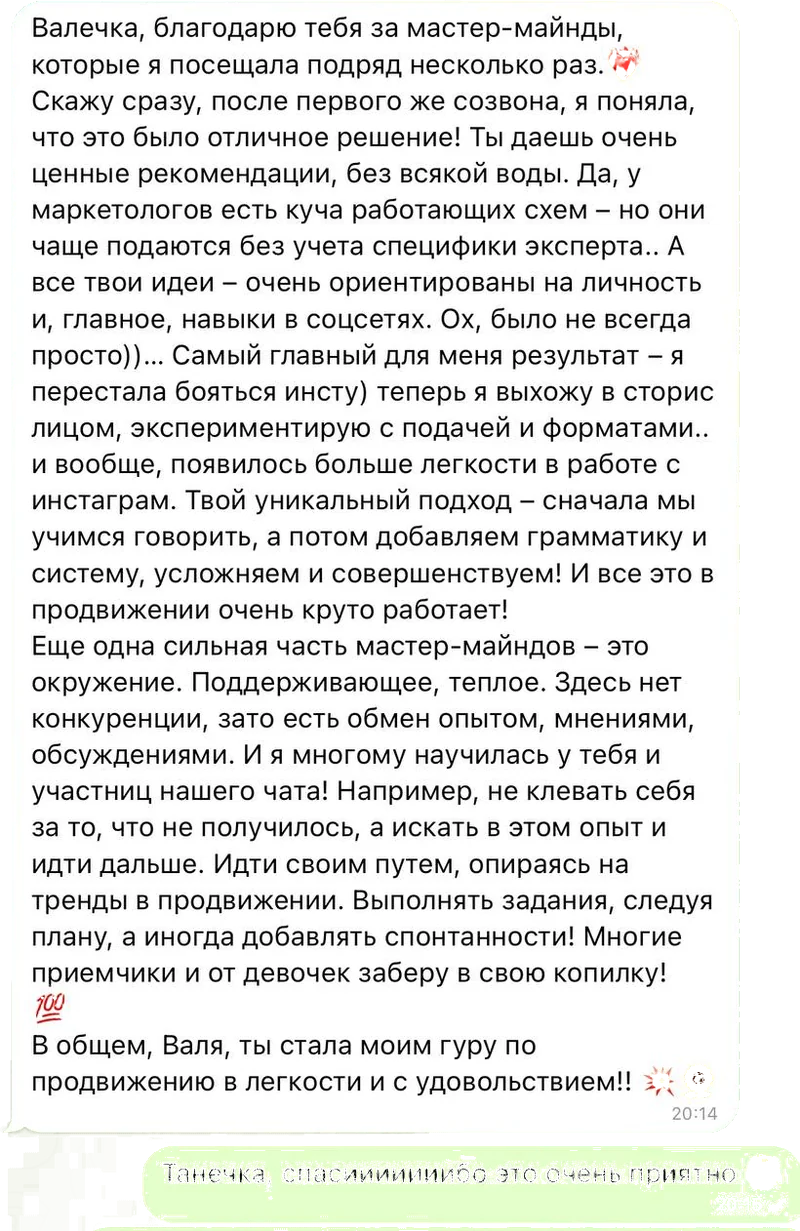
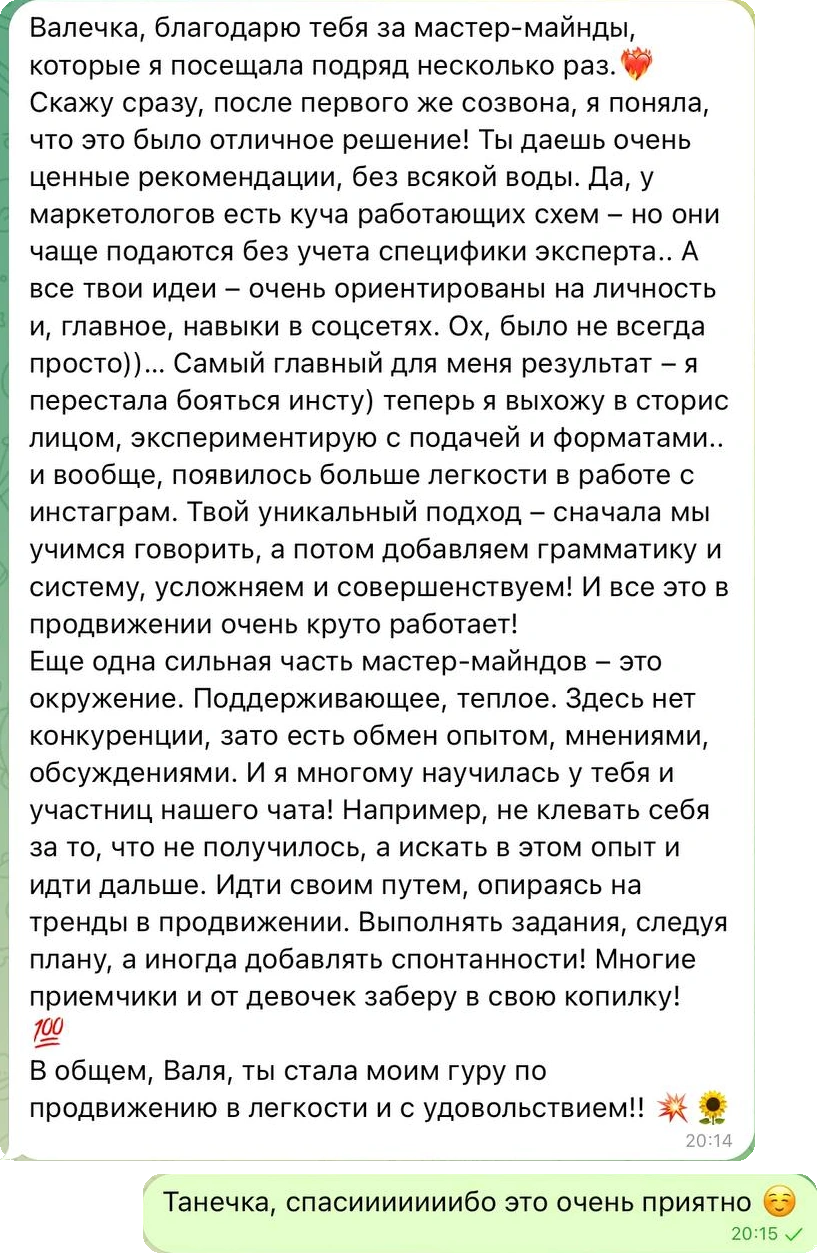
fix: маска пузырей по геометрии и отказ от даунскейла
Брак прошлой вырезки: маска считалась по цвету и принимала за фон всё
зелёное и жёлтое, включая содержимое пузыря. Отсюда выцветшие эмодзи,
призрачные зелёные ответы Валентины, полупрозрачные аватарки и клочок
обоев у «Валя, привет».

Маска переделана на геометрическую:
- цвет теперь используется ТОЛЬКО чтобы найти границы пузыря;
- маска = скруглённый прямоугольник бокса (радиус 2.2% ширины кадра,
  10..26 px) плюс хвостик, который добирается цветом строго внутри бокса;
- внутри бокса альфа 255 без порогов — эмодзи, мятные ответы, время
  и галочки прочтения сохраняются как есть;
- аватарка — отдельный круг с мягким краем; ищется по маске «не обои»,
  а не по светлой: фотография не светлая, из-за чего аватарки Ларисы
  и Prosecco терялись. Аватарка Ларисы касается пузыря и сливается
  с ним в один компонент — задана боксом вручную.

Границы бокса растут по плотности светлого в строке и столбце, а не по
связной компоненте: компонента обрывалась на ярком эмодзи (жёлтая звезда
у Надежды читалась как обои), из-за чего строка «игры, как игропрактик»
срезалась. Теперь бокс идёт до реального края пузыря.

Автопроверка: непрозрачных пикселей с зелёным оттенком вне боксов
и кругов — 0 на всех 15 файлах.

Качество: даунскейл до 800 px убран, файлы отдаются в исходном
разрешении 610..1207 px, WebP качество поднято с 86 до 94. Ведущий
пузырь: файл 1125 px при показе 505 px — 2.2x, ретина закрыта. Вес
1691 КБ на 15 файлов, максимум 252 КБ. Lossless проверен и отклонён:
[…]

Changed region(s): [[0.0, 0.0, 1.0, 1.0], [0.9062, 0.0, 0.9375, 0.0309]]

diff --git a/otzyvy/index.html b/otzyvy/index.html
@@ -47,14 +47,14 @@
   ]
 }
 </script>
-<link rel="stylesheet" href="/assets/css/style.css?v=20260924-rev3"><link rel="stylesheet" href="/assets/css/mobile.css?v=20260924-rev3">
+<link rel="stylesheet" href="/assets/css/style.css?v=20260924-rev4"><link rel="stylesheet" href="/assets/css/mobile.css?v=20260924-rev4">
 </head><body class="home otzyvy"><a class="skip" href="#main">К содержанию</a>
 <div class="page-band page-band--cream"><header class="topbar"><nav class="header-menu" aria-label="Разделы сайта"><a href="#about">Обо мне</a><a href="#formats">Форматы</a><a href="#calendar">Календарь</a><a href="#thoughts">Блог</a></nav><nav class="header-social" aria-label="Социальные сети"><a href="https://t.me/valentina_pro_marketing" target="_blank" rel="noopener noreferrer" aria-label="Telegram"><img src="/assets/brand/telegram-icon.svg" width="22" height="22" alt=""></a><a href="https://max.ru/id421204839449_biz" target="_blank" rel="noopener noreferrer" aria-label="MAX"><img src="/assets/brand/max-icon.svg" width="22" height="22" alt=""></a><a href="https://www.instagram.com/valentina_promarketing" target="_blank" rel="noopener noreferrer" aria-label="Instagram"><img src="/assets/brand/instagram-icon.svg" width="22" height="22" alt=""></a></nav></header></div>
-<main id="main"><div class="page-band page-band--cream"><section class="reviews" aria-labelledby="rev-h"><div class="sec-head" data-motion="reveal"><h1 id="rev-h">Своими словами</h1><span class="rule"></span><p class="label">ЖИВЫЕ ПЕРЕПИСКИ, БЕЗ ПРАВОК · <br>НАЖМИТЕ, ЧТОБЫ ОТКРЫТЬ ЦЕЛИКОМ</p></div><div class="rev-lead"><a class="rev-card rev-card--lead" href="/assets/img/reviews/review-03-larisa-marafon.jpg" data-shot data-alt="Отзыв Ларисы: за 2 месяца разработали концепцию бренда, запустили марафон и набрали группу 23 человека" data-motion="bubble"><span class="rev-stage"><img src="/assets/img/reviews/bub-01-larisa-marafon.webp" width="800" height="333" loading="lazy" decoding="async" alt="Отзыв Ларисы: за 2 месяца разработали концепцию бренда, запустили марафон и набрали группу 23 человека"></span><span class="rev-cap"><b>Лариса С Дочкой</b><span class="rev-tag">Сопровождение проекта</span></span></a><a class="rev-card rev-card--lead" href="/assets/img/reviews/review-01-olga-psiholog.jpg" data-shot data-alt="Отзыв Ольги о мастермайнде: вернулась в соцсети, провела прямой эфир и поняла своё позиционирование" data-motion="bubble"><span class="rev-stage"><img src="/assets/img/reviews/bub-03-olga-psiholog.webp" width="800" height="1067" loading="lazy" decoding="async" alt="Отзыв Ольги о мастермайнде: вернулась в соцсети, провела прямой эфир и поняла своё позиционирование"></span><span class="rev-cap"><b>Ольга Психолог Симферополь</b><span class="rev-tag">Мастермайнд</span></span></a><a class="rev-card rev-card--lead" href="/assets/img/reviews/review-06-prosecco-design.jpg" data-shot data-alt="Отзыв Prosecco_Design: появилась чёткая структура и понимание что транслировать" data-motion="bubble"><span class="rev-stage"><img src="/assets/img/reviews/bub-05-prosecco-design.webp" width="800" height="399" loading="lazy" decoding="async" alt="Отзыв Prosecco_Design: появилась чёткая структура и понимание что транслировать"></span><span class="rev-cap"><b>Prosecco_Design</b><span class="rev-tag">Групповой формат</span></span></a></div><div class="rev-wall"><a class="rev-card" href="/assets/img/reviews/review-02-tanya-mastermaind.jpg" data-shot data-alt="Отзыв Тани о мастер-майндах: перестала бояться инсту, выходит в сторис лицом" data-motion="bubble"><span class="rev-stage"><img src="/assets/img/reviews/bub-02-tanya-mastermaind.webp" width="800" height="1231" loading="lazy" decoding="async" alt="Отзыв Тани о мастер-майндах: перестала бояться инсту, выходит в сторис лицом"></span><span class="rev-cap"><b>Таня</b><span class="rev-tag">Мастер-майнды</span></span></a><a class="rev-card" href="/assets/img/reviews/review-05-nadezhda-igra.jpg" data-shot data-alt="Отзыв Надежды об игре «Путь гениальности»: за две недели провела 2 платных игры" data-motion="bubble"><span class="rev-stage"><img src="/assets/img/reviews/bub-04-nadezhda-igra.webp" width="765" height="1132" loading="lazy" decoding="async" alt="Отзыв Надежды об игре «Путь гениальности»: за две недели провела 2 платных игры"></span><span class="rev-cap"><b>Надежда</b><span class="rev-tag">Игра «Путь гениальности»</span></span></a><a class="rev-card" href="/assets/img/reviews/review-09-praktikum.jpg" data-shot data-alt="Отзыв о практикуме: лёгкий и рабочий инструмент без надрыва и ужаса к соцсетям" data-motion="bubble"><span class="rev-stage"><img src="/assets/img/reviews/bub-06-praktikum.webp" width="800" height="297" loading="lazy" decoding="async" alt="Отзыв о практикуме: лёгкий и рабочий инструмент без надрыва и ужаса к соцсетям"></span><span class="rev-cap"><b>Участница практикума</b><span class="rev-tag">Практикум</span></span></a><a class="rev-card" href="/assets/img/reviews/review-07-obuchenie-raspakovka.jpg" data-shot data-alt="Отзыв об обучении: доупаковала аккаунт, поменяла продукт и поняла, что делать дальше" data-motion="bubble"><span class="rev-stage"><img src="/assets/img/reviews/bub-07-obuchenie-raspakovka.webp" width="800" height="814" loading="lazy" decoding="async" alt="Отзыв об обучении: доупаковала аккаунт, поменяла продукт и поняла, что делать дальше"></span><span class="rev-cap"><b>Участница обучения</b><span class="rev-tag">Обучение</span></span></a><a class="rev-card" href="/assets/img/reviews/review-08-obuchenie-produkt.jpg" data-shot data-alt="Отзыв об обучении: многое встало на свои места, начала что-то делать" data-motion="bubble"><span class="rev-stage"><img src="/assets/img/reviews/bub-08-obuchenie-produkt.webp" width="800" height="403" loading="lazy" decoding="async" alt="Отзыв об обучении: многое встало на свои места, начала что-то делать"></span><span class="rev-cap"><b>Участница обучения</b><span class="rev-tag">Обучение</span></span></a><a class="rev-card" href="/assets/img/reviews/review-04-larisa-zapusk.jpg" data-shot data-alt="Отзыв Ларисы о запуске проекта: поддержка дала понимание, уверенность и желание двигаться дальше" data-motion="bubble"><span class="rev-stage"><img src="/assets/img/reviews/bub-09-larisa-zapusk.webp" width="800" height="520" loading="lazy" decoding="async" alt="Отзыв Ларисы о запуске проекта: поддержка дала понимание, уверенность и желание двигаться дальше"></span><span class="rev-cap"><b>Лариса С Дочкой</b><span class="rev-tag">Сопровождение проекта</span></span></a><a class="rev-card" href="/assets/img/reviews/review-14-gruppa-znakomstvo.jpg" data-shot data-alt="Отзыв участницы группы: получила много полезного и мощную поддержку" data-motion="bubble"><span class="rev-stage"><img src="/assets/img/reviews/bub-10-gruppa-znakomstvo.webp" width="800" height="311" loading="lazy" decoding="async" alt="Отзыв участницы группы: получила много полезного и мощную поддержку"></span><span class="rev-cap"><b>Участница групповой работы</b><span class="rev-tag">Групповой формат</span></span></a><a class="rev-card" href="/assets/img/reviews/review-10-konsultaciya-pitanie.jpg" data-shot data-alt="Отзыв о консультации: загорелась идеей промежуточного продукта, чтобы охватить больше аудитории" data-motion="bubble"><span class="rev-stage"><img src="/assets/img/reviews/bub-11-konsultaciya-pitanie.webp" width="800" height="473" loading="lazy" decoding="async" alt="Отзыв о консультации: загорелась идеей промежуточного продукта, чтобы охватить больше аудитории"></span><span class="rev-cap"><b>Клиентка, тема здорового питания</b><span class="rev-tag">Консультация</span></span></a><a class="rev-card" href="/assets/img/reviews/review-13-gruppa-polza.jpg" data-shot data-alt="Отзыв участницы группы: много пользы и много тёплых эмоций" data-motion="bubble"><span class="rev-stage"><img src="/assets/img/reviews/bub-12-gruppa-polza.webp" width="800" height="290" loading="lazy" decoding="async" alt="Отзыв участницы группы: много пользы и много тёплых эмоций"></span><span class="rev-cap"><b>Участница групповой работы</b><span class="rev-tag">Групповой формат</span></span></a><a class="rev-card" href="/assets/img/reviews/review-11-uverennost.jpg" data-shot data-alt="Отзыв клиентки: ощущаю себя увереннее намного, чем месяц назад" data-motion="bubble"><span class="rev-stage"><img src="/assets/img/reviews/bub-13-uverennost.webp" width="800" height="213" loading="lazy" decoding="async" alt="Отзыв клиентки: ощущаю себя увереннее намного, чем месяц назад"></span><span class="rev-cap"><b>Клиентка</b><span class="rev-tag">Продукт не назван</span></span></a><a class="rev-card" href="/assets/img/reviews/review-12-razbor-zaprosa.jpg" data-shot data-alt="Отзыв клиентки: запрос разобрали быстро и легко" data-motion="bubble"><span class="rev-stage"><img src="/assets/img/reviews/bub-14-razbor-zaprosa.webp" width="800" height="203" loading="lazy" decoding="async" alt="Отзыв клиентки: запрос разобрали быстро и легко"></span><span class="rev-cap"><b>Клиентка после разбора запроса</b><span class="rev-tag">Консультация</span></span></a><a class="rev-card" href="/assets/img/reviews/review-15-nahodka.jpg" data-shot data-alt="Отзыв клиентки: среди воды и «шелухи» ты действительно большая находка" data-motion="bubble"><span class="rev-stage"><img src="/assets/img/reviews/bub-15-nahodka.webp" width="610" height="167" loading="lazy" decoding="async" alt="Отзыв клиентки: среди воды и «шелухи» ты действительно большая находка"></span><span class="rev-cap"><b>Клиентка</b><span class="rev-tag">Продукт не назван</span></span></a></div><dialog class="shot" id="shot" aria-label="Оригинал переписки"><button class="shot-x" type="button" aria-label="Закрыть оригинал">&times;</button><img class="shot-img" alt=""><p class="shot-cap">Оригинал переписки</p></dialog></section></div>
+<main id="main"><div class="page-band page-band--cream"><section class="reviews" aria-labelledby="rev-h"><div class="sec-head" data-motion="reveal"><h1 id="rev-h">Своими словами</h1><span class="rule"></span><p class="label">ЖИВЫЕ ПЕРЕПИСКИ, БЕЗ ПРАВОК · <br>НАЖМИТЕ, ЧТОБЫ ОТКРЫТЬ ЦЕЛИКОМ</p></div><div class="rev-lead"><a class="rev-card rev-card--lead" href="/assets/img/reviews/review-03-larisa-marafon.jpg" data-shot data-alt="Отзыв Ларисы: за 2 месяца разработали концепцию бренда, запустили марафон и набрали группу 23 человека" data-motion="bubble"><span class="rev-stage"><img src="/assets/img/reviews/bub-01-larisa-marafon.webp" width="1125" height="460" loading="lazy" decoding="async" alt="Отзыв Ларисы: за 2 месяца разработали концепцию бренда, запустили марафон и набрали группу 23 человека"></span><span class="rev-cap"><b>Лариса С Дочкой</b><span class="rev-tag">Сопровождение проекта</span></span></a><a class="rev-card rev-card--lead" href="/assets/img/reviews/review-01-olga-psiholog.jpg" data-shot data-alt="Отзыв Ольги о мастермайнде: вернулась в соцсети, провела прямой эфир и поняла своё позиционирование" data-motion="bubble"><span class="rev-stage"><img src="/assets/img/reviews/bub-03-olga-psiholog.webp" width="958" height="1270" loading="lazy" decoding="async" alt="Отзыв Ольги о мастермайнде: вернулась в соцсети, провела прямой эфир и поняла своё позиционирование"></span><span class="rev-cap"><b>Ольга Психолог Симферополь</b><span class="rev-tag">Мастермайнд</span></span></a><a class="rev-card rev-card--lead" href="/assets/img/reviews/review-06-prosecco-design.jpg" data-shot data-alt="Отзыв Prosecco_Design: появилась чёткая структура и понимание что транслировать" data-motion="bubble"><span class="rev-stage"><img src="/assets/img/reviews/bub-05-prosecco-design.webp" width="1133" height="552" loading="lazy" decoding="async" alt="Отзыв Prosecco_Design: появилась чёткая структура и понимание что транслировать"></span><span class="rev-cap"><b>Prosecco_Design</b><span class="rev-tag">Групповой формат</span></span></a></div><div class="rev-wall"><a class="rev-card" href="/assets/img/reviews/review-02-tanya-mastermaind.jpg" data-shot data-alt="Отзыв Тани о мастер-майндах: перестала бояться инсту, выходит в сторис лицом" data-motion="bubble"><span class="rev-stage"><img src="/assets/img/reviews/bub-02-tanya-mastermaind.webp" width="817" height="1253" loading="lazy" decoding="async" alt="Отзыв Тани о мастер-майндах: перестала бояться инсту, выходит в сторис лицом"></span><span class="rev-cap"><b>Таня</b><span class="rev-tag">Мастер-майнды</span></span></a><a class="rev-card" href="/assets/img/reviews/review-05-nadezhda-igra.jpg" data-shot data-alt="Отзыв Надежды об игре «Путь гениальности»: за две недели провела 2 платных игры" data-motion="bubble"><span class="rev-stage"><img src="/assets/img/reviews/bub-04-nadezhda-igra.webp" width="752" height="1093" loading="lazy" decoding="async" alt="Отзыв Надежды об игре «Путь гениальности»: за две недели провела 2 платных игры"></span><span class="rev-cap"><b>Надежда</b><span class="rev-tag">Игра «Путь гениальности»</span></span></a><a class="rev-card" href="/assets/img/reviews/review-09-praktikum.jpg" data-shot data-alt="Отзыв о практикуме: лёгкий и рабочий инструмент без надрыва и ужаса к соцсетям" data-motion="bubble"><span class="rev-stage"><img src="/assets/img/reviews/bub-06-praktikum.webp" width="1073" height="399" loading="lazy" decoding="async" alt="Отзыв о практикуме: лёгкий и рабочий инструмент без надрыва и ужаса к соцсетям"></span><span class="rev-cap"><b>Участница практикума</b><span class="rev-tag">Практикум</span></span></a><a class="rev-card" href="/assets/img/reviews/review-07-obuchenie-raspakovka.jpg" data-shot data-alt="Отзыв об обучении: доупаковала аккаунт, поменяла продукт и поняла, что делать дальше" data-motion="bubble"><span class="rev-stage"><img src="/assets/img/reviews/bub-07-obuchenie-raspakovka.webp" width="1131" height="1184" loading="lazy" decoding="async" alt="Отзыв об обучении: доупаковала аккаунт, поменяла продукт и поняла, что делать дальше"></span><span class="rev-cap"><b>Участница обучения</b><span class="rev-tag">Обучение</span></span></a><a class="rev-card" href="/assets/img/reviews/review-08-obuchenie-produkt.jpg" data-shot data-alt="Отзыв об обучении: многое встало на свои места, начала что-то делать" data-motion="bubble"><span class="rev-stage"><img src="/assets/img/reviews/bub-08-obuchenie-produkt.webp" width="1135" height="558" loading="lazy" decoding="async" alt="Отзыв об обучении: многое встало на свои места, начала что-то делать"></span><span class="rev-cap"><b>Участница обучения</b><span class="rev-tag">Обучение</span></span></a><a class="rev-card" href="/assets/img/reviews/review-04-larisa-zapusk.jpg" data-shot data-alt="Отзыв Ларисы о запуске проекта: поддержка дала понимание, уверенность и желание двигаться дальше" data-motion="bubble"><span class="rev-stage"><img src="/assets/img/reviews/bub-09-larisa-zapusk.webp" width="1008" height="703" loading="lazy" decoding="async" alt="Отзыв Ларисы о запуске проекта: поддержка дала понимание, уверенность и желание двигаться дальше"></span><span class="rev-cap"><b>Лариса С Дочкой</b><span class="rev-tag">Сопровождение проекта</span></span></a><a class="rev-card" href="/assets/img/reviews/review-14-gruppa-znakomstvo.jpg" data-shot data-alt="Отзыв участницы группы: получила много полезного и мощную поддержку" data-motion="bubble"><span class="rev-stage"><img src="/assets/img/reviews/bub-10-gruppa-znakomstvo.webp" width="1144" height="445" loading="lazy" decoding="async" alt="Отзыв участницы группы: получила много полезного и мощную поддержку"></span><span class="rev-cap"><b>Участница групповой работы</b><span class="rev-tag">Групповой формат</span></span></a><a class="rev-card" href="/assets/img/reviews/review-10-konsultaciya-pitanie.jpg" data-shot data-alt="Отзыв о консультации: загорелась идеей промежуточного продукта, чтобы охватить больше аудитории" data-motion="bubble"><span class="rev-stage"><img src="/assets/img/reviews/bub-11-konsultaciya-pitanie.webp" width="1125" height="648" loading="lazy" decoding="async" alt="Отзыв о консультации: загорелась идеей промежуточного продукта, чтобы охватить больше аудитории"></span><span class="rev-cap"><b>Клиентка, тема здорового питания</b><span class="rev-tag">Консультация</span></span></a><a class="rev-card" href="/assets/img/reviews/review-13-gruppa-polza.jpg" data-shot data-alt="Отзыв участницы группы: много пользы и много тёплых эмоций" data-motion="bubble"><span class="rev-stage"><img src="/assets/img/reviews/bub-12-gruppa-polza.webp" width="1207" height="437" loading="lazy" decoding="async" alt="Отзыв участницы группы: много пользы и много тёплых эмоций"></span><span class="rev-cap"><b>Участница групповой работы</b><span class="rev-tag">Групповой формат</span></span></a><a class="rev-card" href="/assets/img/reviews/review-11-uverennost.jpg" data-shot data-alt="Отзыв клиентки: ощущаю себя увереннее намного, чем месяц назад" data-motion="bubble"><span class="rev-stage"><img src="/assets/img/reviews/bub-13-uverennost.webp" width="1177" height="302" loading="lazy" decoding="async" alt="Отзыв клиентки: ощущаю себя увереннее намного, чем месяц назад"></span><span class="rev-cap"><b>Клиентка</b><span class="rev-tag">Продукт не назван</span></span></a><a class="rev-card" href="/assets/img/reviews/review-12-razbor-zaprosa.jpg" data-shot data-alt="Отзыв клиентки: запрос разобрали быстро и легко" data-motion="bubble"><span class="rev-stage"><img src="/assets/img/reviews/bub-14-razbor-zaprosa.webp" width="993" height="255" loading="lazy" decoding="async" alt="Отзыв клиентки: запрос разобрали быстро и легко"></span><span class="rev-cap"><b>Клиентка после разбора запроса</b><span class="rev-tag">Консультация</span></span></a><a class="rev-card" href="/assets/img/reviews/review-15-nahodka.jpg" data-shot data-alt="Отзыв клиентки: среди воды и «шелухи» ты действительно большая находка" data-motion="bubble"><span class="rev-stage"><img src="/assets/img/reviews/bub-15-nahodka.webp" width="610" height="167" loading="lazy" decoding="async" alt="Отзыв клиентки: среди воды и «шелухи» ты действительно большая находка"></span><span class="rev-cap"><b>Клиентка</b><span class="rev-tag">Продукт не назван</span></span></a></div><dialog class="shot" id="shot" aria-label="Оригинал переписки"><button class="shot-x" type="button" aria-label="Закрыть оригинал">&times;</button><img class="shot-img" alt=""><p class="shot-cap">Оригинал переписки</p></dialog></section></div>
 <div class="page-band page-band--cream"><section class="rev-back-band"><p class="rev-all"><a class="btn" href="/#zayavka">Написать Валентине <svg class="i" viewBox="0 0 24 24" aria-hidden="true"><path d="M4 12h15m-6-6 6 6-6 6"/></svg></a></p></section></div>
 </main>
 <div class="page-band page-band--black"><footer><div class="footer-top"><div class="footer-identity"><a class="brand" href="/">Рыжий маркетолог</a><p class="footer-tagline">МАРКЕТИНГ. ЛЮДИ. РАЗВИТИЕ.</p><nav class="footer-social" aria-label="Социальные сети"><a href="https://t.me/valentina_pro_marketing" target="_blank" rel="noopener noreferrer">Telegram</a><a href="https://max.ru/id421204839449_biz" target="_blank" rel="noopener noreferrer">MAX</a><a href="https://www.instagram.com/valentina_promarketing" target="_blank" rel="noopener noreferrer">Instagram</a></nav></div><nav class="footer-menu" aria-label="Разделы сайта Рыжий маркетолог в подвале"><a href="/#about">Обо мне</a><a href="/#formats">Форматы</a><a href="/#calendar">Календарь</a><a href="/#thoughts">Блог</a></nav></div><div class="footer-legal"><p>ИП Сухарева Валентина Александровна · ИНН 421204839449 · ОГРНИП 325420500045757</p><nav aria-label="Юридические документы"><a href="/legal/oferta/">Оферта</a><a href="/legal/privacy/">Политика</a><a href="/rekvizity/">Реквизиты</a></nav></div><p class="footer-credit">Концепт и реализация — <a href="https://xn--80abbgkqqiqk5bzb.xn--p1ai" target="_blank" rel="noopener noreferrer">БигТехно<span class="credit-club">Клаб</span>.рф</a></p></footer></div>
-<script src="/assets/js/main.js?v=20260924-rev3" defer></script>
+<script src="/assets/js/main.js?v=20260924-rev4" defer></script>
 <script src="/assets/js/metrika.js" defer></script>
 <noscript><div><img src="https://mc.yandex.ru/watch/112475322" style="position:absolute;left:-9999px" alt=""></div></noscript>
 </body></html>

diff --git a/index.html b/index.html
@@ -26,7 +26,7 @@
 <link rel="apple-touch-icon" href="/assets/img/apple-touch-icon-180.png">
 <meta name="theme-color" content="#FE6C1F">
 <link rel="preload" href="/assets/fonts/golos-cyrillic.woff2" as="font" type="font/woff2" crossorigin>
-<link rel="stylesheet" href="/assets/css/style.css?v=20260924-rev3"><link rel="stylesheet" href="/assets/css/mobile.css?v=20260924-rev3">
+<link rel="stylesheet" href="/assets/css/style.css?v=20260924-rev4"><link rel="stylesheet" href="/assets/css/mobile.css?v=20260924-rev4">
 <meta name="twitter:title" content="Рыжий маркетолог — Валентина Сухарева">
 <meta name="twitter:description" content="Наставник по продвижению и личному бренду, организатор онлайн-нетворкингов. Работает онлайн по России, база — Сочи. Опыт в маркетинге более 15 лет.">
 <meta name="twitter:image" content="https://xn----8sbjhcmhkkgzbpg6a9j.xn--p1ai/assets/img/og-home.jpg">
@@ -174,7 +174,7 @@
 </section></div>
 <div class="page-band page-band--cream"><section id="about" class="about" aria-labelledby="about-h"><div class="about-copy" data-motion="reveal"><h2 id="about-h">Маркетинг с опытом. <br>И характером.</h2><p>Личный бренд, продвижение соцсетей <br>и запуск онлайн-продуктов.</p></div><p class="years"><b data-motion="number">15+</b><span>лет в маркетинге</span></p><div class="tags" data-motion="reveal"><p>СТРАТЕГИЯ <br>КОНТЕНТ <br>ЛЮДИ <br>РАЗВИТИЕ <br>СМЫСЛ</p><p>МАРКЕТИНГ <br>С ЧЕЛОВЕЧЕСКИМ <br>ЛИЦОМ</p></div></section></div>
 <div class="page-band page-band--blue"><section id="formats" class="formats-section" aria-labelledby="formats-h"><h2 id="formats-h" data-motion="reveal">Форматы моих мероприятий</h2><ul class="formats"><li data-motion="reveal" data-delay="0"><svg class="i" viewBox="0 0 24 24" aria-hidden="true"><rect x="3" y="4" width="18" height="14"/><path d="m10 8 5 3-5 3zM8 22h8M12 18v4"/></svg><b>Вебинары</b><p>Практика и разборы</p></li><li data-motion="reveal" data-delay="70"><svg class="i" viewBox="0 0 24 24" aria-hidden="true"><path d="M3 19 9 13l4 4 8-12M15 5h6v6M3 23h18"/></svg><b>Онлайн-марафоны</b><p>От знаний к действиям</p></li><li data-motion="reveal" data-delay="140"><svg class="i" viewBox="0 0 24 24" aria-hidden="true"><rect x="3" y="3" width="18" height="18"/><circle cx="12" cy="12" r="4" fill="currentColor" stroke="none"/></svg><b>Прямые эфиры</b><p>Живой разговор</p></li><li data-motion="reveal" data-delay="210"><svg class="i" viewBox="0 0 24 24" aria-hidden="true"><circle cx="6" cy="6" r="3"/><circle cx="18" cy="6" r="3"/><circle cx="6" cy="18" r="3"/><circle cx="18" cy="18" r="3"/><path d="M9 6h6M6 9v6M18 9v6M9 18h6"/></svg><b>Нетворкинги</b><p>Полезные знакомства</p></li></ul></section></div>
-<div class="page-band page-band--cream"><section id="reviews" class="reviews" aria-labelledby="rev-h"><div class="sec-head" data-motion="reveal"><h2 id="rev-h">Своими словами</h2><span class="rule"></span><p class="label">ЖИВЫЕ ПЕРЕПИСКИ, БЕЗ ПРАВОК · <br>НАЖМИТЕ, ЧТОБЫ ОТКРЫТЬ ЦЕЛИКОМ</p></div><div class="rev-lead"><a class="rev-card rev-card--lead" href="/assets/img/reviews/review-03-larisa-marafon.jpg" data-shot data-alt="Отзыв Ларисы: за 2 месяца разработали концепцию бренда, запустили марафон и набрали группу 23 человека" data-motion="bubble"><span class="rev-stage"><img src="/assets/img/reviews/bub-01-larisa-marafon.webp" width="800" height="333" loading="lazy" decoding="async" alt="Отзыв Ларисы: за 2 месяца разработали концепцию бренда, запустили марафон и набрали группу 23 человека"></span><span class="rev-cap"><b>Лариса С Дочкой</b><span class="rev-tag">Сопровождение проекта</span></span></a><a class="rev-card rev-card--lead" href="/assets/img/reviews/review-01-olga-psiholog.jpg" data-shot data-alt="Отзыв Ольги о мастермайнде: вернулась в соцсети, провела прямой эфир и поняла своё позиционирование" data-motion="bubble"><span class="rev-stage"><img src="/assets/img/reviews/bub-03-olga-psiholog.webp" width="800" height="1067" loading="lazy" decoding="async" alt="Отзыв Ольги о мастермайнде: вернулась в соцсети, провела прямой эфир и поняла своё позиционирование"></span><span class="rev-cap"><b>Ольга Психолог Симферополь</b><span class="rev-tag">Мастермайнд</span></span></a><a class="rev-card rev-card--lead" href="/assets/img/reviews/review-06-prosecco-design.jpg" data-shot data-alt="Отзыв Prosecco_Design: появилась чёткая структура и понимание что транслировать" data-motion="bubble"><span class="rev-stage"><img src="/assets/img/reviews/bub-05-prosecco-design.webp" width="800" height="399" loading="lazy" decoding="async" alt="Отзыв Prosecco_Design: появилась чёткая структура и понимание что транслировать"></span><span class="rev-cap"><b>Prosecco_Design</b><span class="rev-tag">Групповой формат</span></span></a></div><div class="rev-wall"><a class="rev-card" href="/assets/img/reviews/review-05-nadezhda-igra.jpg" data-shot data-alt="Отзыв Надежды об игре «Путь гениальности»: за две недели провела 2 платных игры" data-motion="bubble"><span class="rev-stage"><img src="/assets/img/reviews/bub-04-nadezhda-igra.webp" width="765" height="1132" loading="lazy" decoding="async" alt="Отзыв Надежды об игре «Путь гениальности»: за две недели провела 2 платных игры"></span><span class="rev-cap"><b>Надежда</b><span class="rev-tag">Игра «Путь гениальности»</span></span></a><a class="rev-card" href="/assets/img/reviews/review-08-obuchenie-produkt.jpg" data-shot data-alt="Отзыв об обучении: многое встало на свои места, начала что-то делать" data-motion="bubble"><span class="rev-stage"><img src="/assets/img/reviews/bub-08-obuchenie-produkt.webp" width="800" height="403" loading="lazy" decoding="async" alt="Отзыв об обучении: многое встало на свои места, начала что-то делать"></span><span class="rev-cap"><b>Участница обучения</b><span class="rev-tag">Обучение</span></span></a><a class="rev-card" href="/assets/img/reviews/review-02-tanya-mastermaind.jpg" data-shot data-alt="Отзыв Тани о мастер-майндах: перестала бояться инсту, выходит в сторис лицом" data-motion="bubble"><span class="rev-stage"><img src="/assets/img/reviews/bub-02-tanya-mastermaind.webp" width="800" height="1231" loading="lazy" decoding="async" alt="Отзыв Тани о мастер-майндах: перестала бояться инсту, выходит в сторис лицом"></span><span class="rev-cap"><b>Таня</b><span class="rev-tag">Мастер-майнды</span></span></a><a class="rev-card" href="/assets/img/reviews/review-07-obuchenie-raspakovka.jpg" data-shot data-alt="Отзыв об обучении: доупаковала аккаунт, поменяла продукт и поняла, что делать дальше" data-motion="bubble"><span class="rev-stage"><img src="/assets/img/reviews/bub-07-obuchenie-raspakovka.webp" width="800" height="814" loading="lazy" decoding="async" alt="Отзыв об обучении: доупаковала аккаунт, поменяла продукт и поняла, что делать дальше"></span><span class="rev-cap"><b>Участница обучения</b><span class="rev-tag">Обучение</span></span></a><a class="rev-card" href="/assets/img/reviews/review-10-konsultaciya-pitanie.jpg" data-shot data-alt="Отзыв о консультации: загорелась идеей промежуточного продукта, чтобы охватить больше аудитории" data-motion="bubble"><span class="rev-stage"><img src="/assets/img/reviews/bub-11-konsultaciya-pitanie.webp" width="800" height="473" loading="lazy" decoding="async" alt="Отзыв о консультации: загорелась идеей промежуточного продукта, чтобы охватить больше аудитории"></span><span class="rev-cap"><b>Клиентка, тема здорового питания</b><span class="rev-tag">Консультация</span></span></a></div><p class="rev-all"><a class="btn" href="/otzyvy/">Все отзывы <svg class="i" viewBox="0 0 24 24" aria-hidden="true"><path d="M4 12h15m-6-6 6 6-6 6"/></svg></a></p><dialog class="shot" id="shot" aria-label="Оригинал переписки"><button class="shot-x" type="button" aria-label="Закрыть оригинал">&times;</button><img class="shot-img" alt=""><p class="shot-cap">Оригинал переписки</p></dialog></section></div><div class="page-band page-band--cream"><section id="calendar" class="calendar-section" aria-labelledby="cal-h"><div class="sec-head" data-motion="reveal"><h2 id="cal-h">Календарь встреч</h2><span class="rule"></span><p class="label">МЕРОПРИЯТИЯ, <br>КОТОРЫЕ ВДОХНОВЛЯЮТ</p></div><div class="cal-wrap">        <div class="cal" data-motion="reveal">
+<div class="page-band page-band--cream"><section id="reviews" class="reviews" aria-labelledby="rev-h"><div class="sec-head" data-motion="reveal"><h2 id="rev-h">Своими словами</h2><span class="rule"></span><p class="label">ЖИВЫЕ ПЕРЕПИСКИ, БЕЗ ПРАВОК · <br>НАЖМИТЕ, ЧТОБЫ ОТКРЫТЬ ЦЕЛИКОМ</p></div><div class="rev-lead"><a class="rev-card rev-card--lead" href="/assets/img/reviews/review-03-larisa-marafon.jpg" data-shot data-alt="Отзыв Ларисы: за 2 месяца разработали концепцию бренда, запустили марафон и набрали группу 23 человека" data-motion="bubble"><span class="rev-stage"><img src="/assets/img/reviews/bub-01-larisa-marafon.webp" width="1125" height="460" loading="eager" fetchpriority="low" decoding="async" alt="Отзыв Ларисы: за 2 месяца разработали концепцию бренда, запустили марафон и набрали группу 23 человека"></span><span class="rev-cap"><b>Лариса С Дочкой</b><span class="rev-tag">Сопровождение проекта</span></span></a><a class="rev-card rev-card--lead" href="/assets/img/reviews/review-01-olga-psiholog.jpg" data-shot data-alt="Отзыв Ольги о мастермайнде: вернулась в соцсети, провела прямой эфир и поняла своё позиционирование" data-motion="bubble"><span class="rev-stage"><img src="/assets/img/reviews/bub-03-olga-psiholog.webp" width="958" height="1270" loading="eager" fetchpriority="low" decoding="async" alt="Отзыв Ольги о мастермайнде: вернулась в соцсети, провела прямой эфир и поняла своё позиционирование"></span><span class="rev-cap"><b>Ольга Психолог Симферополь</b><span class="rev-tag">Мастермайнд</span></span></a><a class="rev-card rev-card--lead" href="/assets/img/reviews/review-06-prosecco-design.jpg" data-shot data-alt="Отзыв Prosecco_Design: появилась чёткая структура и понимание что транслировать" data-motion="bubble"><span class="rev-stage"><img src="/assets/img/reviews/bub-05-prosecco-design.webp" width="1133" height="552" loading="lazy" decoding="async" alt="Отзыв Prosecco_Design: появилась чёткая структура и понимание что транслировать"></span><span class="rev-cap"><b>Prosecco_Design</b><span class="rev-tag">Групповой формат</span></span></a></div><div class="rev-wall"><a class="rev-card" href="/assets/img/reviews/review-05-nadezhda-igra.jpg" data-shot data-alt="Отзыв Надежды об игре «Путь гениальности»: за две недели провела 2 платных игры" data-motion="bubble"><span class="rev-stage"><img src="/assets/img/reviews/bub-04-nadezhda-igra.webp" width="752" height="1093" loading="lazy" decoding="async" alt="Отзыв Надежды об игре «Путь гениальности»: за две недели провела 2 платных игры"></span><span class="rev-cap"><b>Надежда</b><span class="rev-tag">Игра «Путь гениальности»</span></span></a><a class="rev-card" href="/assets/img/reviews/review-08-obuchenie-produkt.jpg" data-shot data-alt="Отзыв об обучении: многое встало на свои места, начала что-то делать" data-motion="bubble"><span class="rev-stage"><img src="/assets/img/reviews/bub-08-obuchenie-produkt.webp" width="1135" height="558" loading="lazy" decoding="async" alt="Отзыв об обучении: многое встало на свои места, начала что-то делать"></span><span class="rev-cap"><b>Участница обучения</b><span class="rev-tag">Обучение</span></span></a><a class="rev-card" href="/assets/img/reviews/review-02-tanya-mastermaind.jpg" data-shot data-alt="Отзыв Тани о мастер-майндах: перестала бояться инсту, выходит в сторис лицом" data-motion="bubble"><span class="rev-stage"><img src="/assets/img/reviews/bub-02-tanya-mastermaind.webp" width="817" height="1253" loading="lazy" decoding="async" alt="Отзыв Тани о мастер-майндах: перестала бояться инсту, выходит в сторис лицом"></span><span class="rev-cap"><b>Таня</b><span class="rev-tag">Мастер-майнды</span></span></a><a class="rev-card" href="/assets/img/reviews/review-07-obuchenie-raspakovka.jpg" data-shot data-alt="Отзыв об обучении: доупаковала аккаунт, поменяла продукт и поняла, что делать дальше" data-motion="bubble"><span class="rev-stage"><img src="/assets/img/reviews/bub-07-obuchenie-raspakovka.webp" width="1131" height="1184" loading="lazy" decoding="async" alt="Отзыв об обучении: доупаковала аккаунт, поменяла продукт и поняла, что делать дальше"></span><span class="rev-cap"><b>Участница обучения</b><span class="rev-tag">Обучение</span></span></a><a class="rev-card" href="/assets/img/reviews/review-10-konsultaciya-pitanie.jpg" data-shot data-alt="Отзыв о консультации: загорелась идеей промежуточного продукта, чтобы охватить больше аудитории" data-motion="bubble"><span class="rev-stage"><img src="/assets/img/reviews/bub-11-konsultaciya-pitanie.webp" width="1125" height="648" loading="lazy" decoding="async" alt="Отзыв о консультации: загорелась идеей промежуточного продукта, чтобы охватить больше аудитории"></span><span class="rev-cap"><b>Клиентка, тема здорового питания</b><span class="rev-tag">Консультация</span></span></a></div><p class="rev-all"><a class="btn" href="/otzyvy/">Все отзывы <svg class="i" viewBox="0 0 24 24" aria-hidden="true"><path d="M4 12h15m-6-6 6 6-6 6"/></svg></a></p><dialog class="shot" id="shot" aria-label="Оригинал переписки"><button class="shot-x" type="button" aria-label="Закрыть оригинал">&times;</button><img class="shot-img" alt=""><p class="shot-cap">Оригинал переписки</p></dialog></section></div><div class="page-band page-band--cream"><section id="calendar" class="calendar-section" aria-labelledby="cal-h"><div class="sec-head" data-motion="reveal"><h2 id="cal-h">Календарь встреч</h2><span class="rule"></span><p class="label">МЕРОПРИЯТИЯ, <br>КОТОРЫЕ ВДОХНОВЛЯЮТ</p></div><div class="cal-wrap">        <div class="cal" data-motion="reveal">
           <div class="cal-head">
             <b>Сентябрь 2026</b>
             <span class="cal-nav"><button type="button" disabled data-month="-1" aria-label="Предыдущий месяц">‹</button><button type="button" disabled data-month="1" aria-label="Следующий месяц">›</button></span>
@@ -217,5 +217,5 @@
           <svg class="i" viewBox="0 0 24 24" aria-hidden="true"><path d="M4 12h15m0 0-6-6m6 6-6 6"/></svg>
         </button>
       <noscript><p class="no-js-note">Для отправки формы нужен JavaScript. Можно написать Валентине через Telegram или MAX — ссылки рядом.</p></noscript></form></section></div>
-</main><div class="page-band page-band--black"><footer><div class="footer-top"><div class="footer-identity"><a class="brand" href="/">Рыжий маркетолог</a><p class="footer-tagline">МАРКЕТИНГ. ЛЮДИ. РАЗВИТИЕ.</p><nav class="footer-social" aria-label="Социальные сети"><a href="https://t.me/valentina_pro_marketing" target="_blank" rel="noopener noreferrer">Telegram</a><a href="https://max.ru/id421204839449_biz" target="_blank" rel="noopener noreferrer">MAX</a><a href="https://www.instagram.com/valentina_promarketing" target="_blank" rel="noopener noreferrer">Instagram</a></nav></div><nav class="footer-menu" aria-label="Разделы сайта Рыжий маркетолог в подвале"><a href="/#about">Обо мне</a><a href="/#formats">Форматы</a><a href="/#calendar">Календарь</a><a href="/#thoughts">Блог</a></nav></div><div class="footer-legal"><p>ИП Сухарева Валентина Александровна · ИНН 421204839449 · ОГРНИП 325420500045757</p><nav aria-label="Юридические документы"><a href="/legal/oferta/">Оферта</a><a href="/legal/privacy/">Политика</a><a href="/rekvizity/">Реквизиты</a></nav></div><p class="footer-credit">Концепт и реализация — <a href="https://xn--80abbgkqqiqk5bzb.xn--p1ai" target="_blank" rel="noopener noreferrer">БигТехно<span class="credit-club">Клаб</span>.рф</a></p></footer></div><script src="/assets/js/main.js?v=20260924-rev3" defer></script><script src="/assets/js/metrika.js" defer></script><noscript><div><img src="https://mc.yandex.ru/watch/112475322" style="position:absolute;left:-9999px" alt=""></div></noscript>
+</main><div class="page-band page-band--black"><footer><div class="footer-top"><div class="footer-identity"><a class="brand" href="/">Рыжий маркетолог</a><p class="footer-tagline">МАРКЕТИНГ. ЛЮДИ. РАЗВИТИЕ.</p><nav class="footer-social" aria-label="Социальные сети"><a href="https://t.me/valentina_pro_marketing" target="_blank" rel="noopener noreferrer">Telegram</a><a href="https://max.ru/id421204839449_biz" target="_blank" rel="noopener noreferrer">MAX</a><a href="https://www.instagram.com/valentina_promarketing" target="_blank" rel="noopener noreferrer">Instagram</a></nav></div><nav class="footer-menu" aria-label="Разделы сайта Рыжий маркетолог в подвале"><a href="/#about">Обо мне</a><a href="/#formats">Форматы</a><a href="/#calendar">Календарь</a><a href="/#thoughts">Блог</a></nav></div><div class="footer-legal"><p>ИП Сухарева Валентина Александровна · ИНН 421204839449 · ОГРНИП 325420500045757</p><nav aria-label="Юридические документы"><a href="/legal/oferta/">Оферта</a><a href="/legal/privacy/">Политика</a><a href="/rekvizity/">Реквизиты</a></nav></div><p class="footer-credit">Концепт и реализация — <a href="https://xn--80abbgkqqiqk5bzb.xn--p1ai" target="_blank" rel="noopener noreferrer">БигТехно<span class="credit-club">Клаб</span>.рф</a></p></footer></div><script src="/assets/js/main.js?v=20260924-rev4" defer></script><script src="/assets/js/metrika.js" defer></script><noscript><div><img src="https://mc.yandex.ru/watch/112475322" style="position:absolute;left:-9999px" alt=""></div></noscript>
 </body></html>
